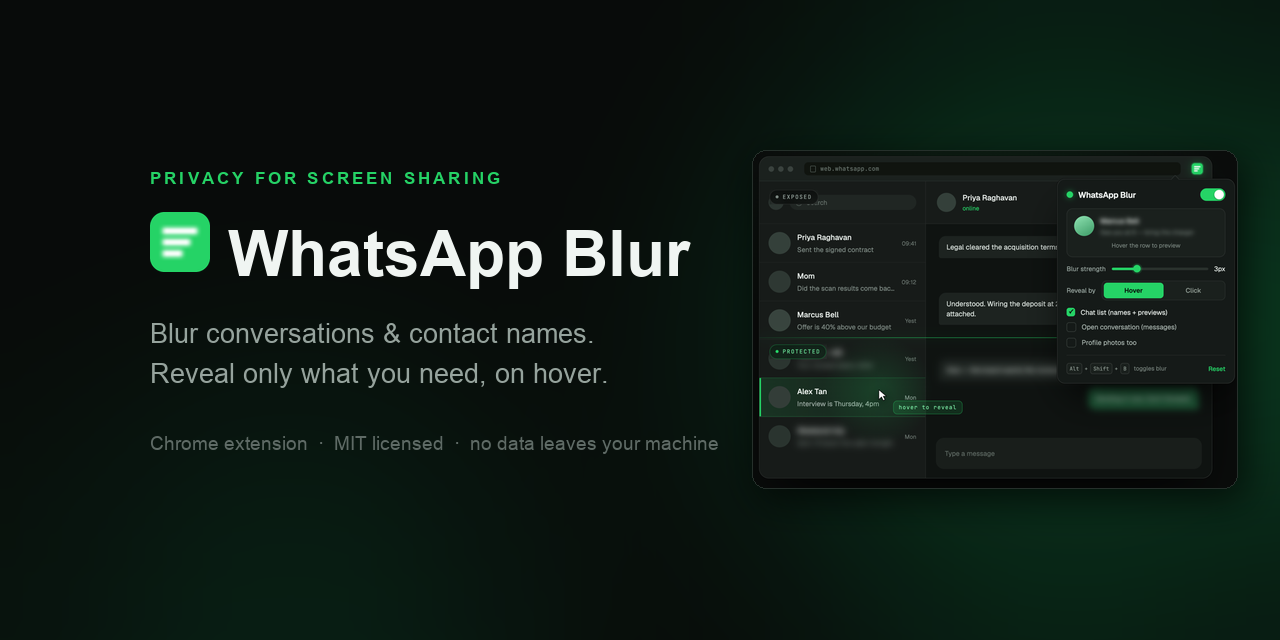
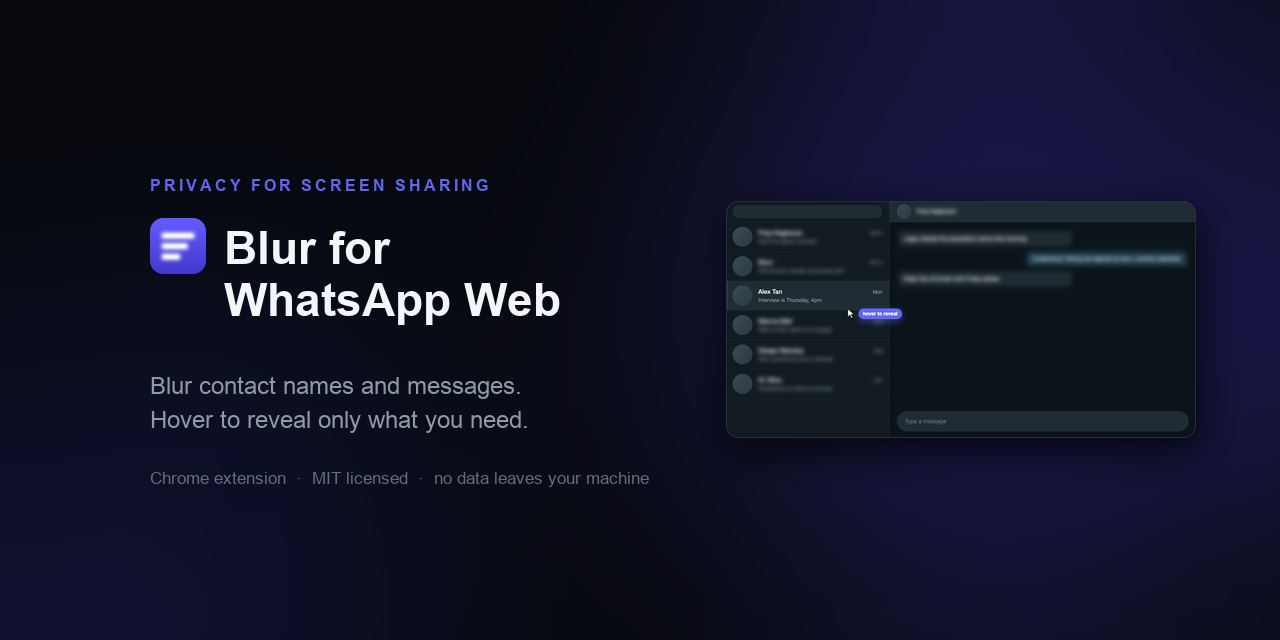
Prepare Chrome Web Store submission
Rename to "Blur for WhatsApp Web" and drop WhatsApp's brand colors so the
listing doesn't read as an official WhatsApp product:

- Name, popup title and action tooltip updated in manifest.json, popup.html
- Popup accent goes from WhatsApp green to indigo (--green* -> --accent*),
  new icons and avatar gradient to match
- Replace assets/banner.png with the reworked social-preview.png in the README

Add the submission material itself:

- store/LISTING.md — listing copy, single-purpose statement, permission
  justifications and privacy answers
- store/*.png — two 1280x800 screenshots and the 440x280 promo tile
- PRIVACY.md — privacy policy to link from the listing
- README section pointing at all of it, plus the zip rebuild command

manifest.json is also reformatted to one array entry per line; no
functional change there.

diff --git a/popup.css b/popup.css
@@ -1,6 +1,6 @@
 :root {
-  --green: #1fa855;
-  --green-soft: #e7f7ee;
+  --accent: #4f46e5;
+  --accent-soft: #eceafd;
   --bg: #ffffff;
   --fg: #0f1720;
   --muted: #667381;
@@ -11,8 +11,8 @@
 
 @media (prefers-color-scheme: dark) {
   :root {
-    --green: #25d366;
-    --green-soft: #17301f;
+    --accent: #7d78ff;
+    --accent-soft: #21205a;
     --bg: #11181c;
     --fg: #e9edef;
     --muted: #8696a0;
@@ -34,7 +34,7 @@ body {
 header { display: flex; align-items: center; justify-content: space-between; }
 .brand { display: flex; align-items: center; gap: 8px; }
 .brand h1 { margin: 0; font-size: 14px; font-weight: 650; letter-spacing: -0.01em; }
-.dot { width: 10px; height: 10px; border-radius: 50%; background: var(--green); box-shadow: 0 0 0 3px var(--green-soft); }
+.dot { width: 10px; height: 10px; border-radius: 50%; background: var(--accent); box-shadow: 0 0 0 3px var(--accent-soft); }
 
 /* master switch */
 .switch input { position: absolute; opacity: 0; pointer-events: none; }
@@ -47,9 +47,9 @@ header { display: flex; align-items: center; justify-content: space-between; }
   background: #fff; box-shadow: 0 1px 3px rgb(0 0 0 / 0.3);
   transition: transform 150ms ease;
 }
-.switch input:checked + .track { background: var(--green); }
+.switch input:checked + .track { background: var(--accent); }
 .switch input:checked + .track .knob { transform: translateX(16px); }
-.switch input:focus-visible + .track { outline: 2px solid var(--green); outline-offset: 2px; }
+.switch input:focus-visible + .track { outline: 2px solid var(--accent); outline-offset: 2px; }
 
 /* live preview */
 .preview {
@@ -60,7 +60,7 @@ header { display: flex; align-items: center; justify-content: space-between; }
   background: color-mix(in srgb, var(--fg) 3%, transparent);
 }
 .preview .row { display: flex; gap: 10px; align-items: center; }
-.avatar { width: 34px; height: 34px; border-radius: 50%; background: linear-gradient(135deg, #9fd8b6, #4fb37a); flex: none; }
+.avatar { width: 34px; height: 34px; border-radius: 50%; background: linear-gradient(135deg, #b6b3f2, #6f66e6); flex: none; }
 .lines { display: grid; gap: 3px; min-width: 0; }
 .line { display: block; white-space: nowrap; overflow: hidden; text-overflow: ellipsis; transition: filter 120ms ease; }
 .name { font-weight: 600; }
@@ -80,7 +80,7 @@ body.blurring .preview.revealed .avatar { filter: none; }
 .control { display: flex; align-items: center; gap: 10px; }
 .control > span { flex: none; width: 88px; color: var(--muted); }
 .control.stacked > span { width: 88px; }
-input[type="range"] { flex: 1; accent-color: var(--green); }
+input[type="range"] { flex: 1; accent-color: var(--accent); }
 output { width: 34px; text-align: right; font-variant-numeric: tabular-nums; color: var(--muted); }
 
 .segmented { display: flex; flex: 1; border: 1px solid var(--line); border-radius: 8px; overflow: hidden; }
@@ -88,10 +88,10 @@ output { width: 34px; text-align: right; font-variant-numeric: tabular-nums; col
   flex: 1; padding: 5px 0; border: 0; background: transparent; cursor: pointer;
   color: var(--muted); font: inherit;
 }
-.segmented button[aria-pressed="true"] { background: var(--green); color: #fff; font-weight: 600; }
+.segmented button[aria-pressed="true"] { background: var(--accent); color: #fff; font-weight: 600; }
 
 .check { display: flex; align-items: center; gap: 8px; cursor: pointer; }
-.check input { accent-color: var(--green); width: 15px; height: 15px; }
+.check input { accent-color: var(--accent); width: 15px; height: 15px; }
 
 footer {
   margin-top: 14px; padding-top: 10px; border-top: 1px solid var(--line);
@@ -102,6 +102,6 @@ kbd {
   padding: 1px 4px; border: 1px solid var(--line); border-bottom-width: 2px;
   border-radius: 4px; font: inherit; font-size: 10px;
 }
-.link { border: 0; background: none; color: var(--green); cursor: pointer; font: inherit; padding: 0; }
+.link { border: 0; background: none; color: var(--accent); cursor: pointer; font: inherit; padding: 0; }
 
 body.off .preview, body.off .controls { opacity: 0.45; pointer-events: none; }

diff --git a/popup.html b/popup.html
@@ -1,12 +1,12 @@
 <!doctype html>
 <meta charset="utf-8">
 <link rel="stylesheet" href="popup.css">
-<title>WhatsApp Blur</title>
+<title>Blur for WhatsApp Web</title>
 
 <header>
   <div class="brand">
     <span class="dot"></span>
-    <h1>WhatsApp Blur</h1>
+    <h1>Blur for WhatsApp Web</h1>
   </div>
   <label class="switch" title="Turn blurring on or off">
     <input type="checkbox" id="enabled">

diff --git a/store/LISTING.md b/store/LISTING.md
@@ -1,0 +1,111 @@
+# Chrome Web Store submission
+
+Everything the developer dashboard asks for, ready to paste.
+
+## Package
+
+`dist/blur-for-whatsapp-web-1.0.0.zip` — upload this. It contains only the
+extension itself (manifest, scripts, styles, icons), not the README, store
+assets or git files.
+
+## Store listing
+
+**Name**
+```
+Blur for WhatsApp Web
+```
+
+**Summary** (132 char limit — this is 91)
+```
+Blur contact names and messages on WhatsApp Web. Hover a chat to reveal only what you need.
+```
+
+**Category:** Privacy & Security
+**Language:** English
+
+**Detailed description**
+```
+Working in a cafe, sharing your screen on a call, or sitting in an open
+office? Your WhatsApp Web chat list broadcasts who is messaging you and what
+they said, to anyone who glances over.
+
+Blur for WhatsApp Web blurs it. Contact names, message previews, timestamps
+and the messages inside an open conversation are all blurred until you hover
+the one you actually want to read — the name and the message clear together,
+then blur again the moment you move away.
+
+WHAT YOU CAN BLUR
+• Chat list — names, previews, timestamps, unread badges
+• Open conversation — every message bubble and the header name
+• Profile photos — optional, off by default
+
+CONTROLS
+• Blur strength, from a light haze to completely unreadable
+• Reveal on hover, or require a click — safer while screen sharing
+• Alt+Shift+B toggles all blurring instantly
+• Settings save automatically and apply without reloading
+
+PRIVACY
+No accounts, no servers, no analytics, no network requests of any kind.
+Nothing is collected and nothing leaves your machine. The extension only runs
+on web.whatsapp.com and does nothing anywhere else. The source is public and
+MIT licensed: https://github.com/rasangalk/whatsapp-blur-extension
+
+Note: blurring is visual. It hides your messages from people looking at your
+screen — it is not encryption and not a substitute for locking your computer.
+
+Not affiliated with, endorsed by, or connected to WhatsApp or Meta.
+```
+
+## Privacy practices tab
+
+**Single purpose**
+```
+Visually blur contact names and message content on WhatsApp Web so they cannot
+be read by people looking at the user's screen, revealing them on hover or
+click.
+```
+
+**Justification — `storage`**
+```
+Stores the user's own settings: blur on/off, blur strength, hover-or-click
+reveal mode, and which areas to blur. No user content is stored.
+```
+
+**Justification — host permission for `https://web.whatsapp.com/*`**
+```
+The extension applies its blur to WhatsApp Web's interface, so it must run a
+content script on that site. It requests no other host and runs nowhere else.
+```
+
+**Remote code:** No — all code is in the package.
+
+**Data collection:** Nothing collected. Tick no categories, and confirm the
+three certifications (no unrelated selling, no unapproved use, no
+creditworthiness use).
+
+**Privacy policy URL**
+```
+https://github.com/rasangalk/whatsapp-blur-extension/blob/main/PRIVACY.md
+```
+(The repo must be public and pushed before submitting, or this link 404s.)
+
+## Graphics
+
+| Asset | File | Size |
+| --- | --- | --- |
+| Screenshot 1 | `store/screenshot-1-chat-list.png` | 1280×800 |
+| Screenshot 2 | `store/screenshot-2-settings.png` | 1280×800 |
+| Small promo tile | `store/promo-tile-440x280.png` | 440×280 |
+| Store icon | `icons/icon128.png` | 128×128 |
+
+Marquee promo tile (1400×560) is optional and only used if the extension is
+featured.
+
+## Before you submit
+
+1. Push the repo — the privacy policy URL and the source link must resolve.
+2. Enable 2-Step Verification on the Google account, pay the one-time $5
+   developer registration fee.
+3. Upload the zip, paste the fields above, attach the graphics.
+4. Review usually takes a few days; host permissions can make it longer.

diff --git a/README.md b/README.md
@@ -1,8 +1,8 @@
-# WhatsApp Blur
+# Blur for WhatsApp Web
 
 <p align="center">
-  <img src="assets/banner.png" width="520"
-       alt="Sharing your screen? Keep WhatsApp private. Blur conversations and contact names, reveal only what you need, on hover.">
+  <img src="assets/social-preview.png" width="720"
+       alt="Blur for WhatsApp Web - blur contact names and messages, hover to reveal only what you need.">
 </p>
 
 A Chrome extension that blurs contact names and messages on WhatsApp Web.
@@ -107,6 +107,19 @@ icons/           generated PNG icons
   can't be parsed, the whole row stays blurred rather than exposed. If you see
   a row whose photo is blurred with "Profile photos too" switched off, that is
   this fallback — tell me the kind of row and I'll extend the detection.
+
+## Chrome Web Store
+
+Not published yet. Everything needed for a submission is prepared:
+
+- `dist/blur-for-whatsapp-web-1.0.0.zip` — the upload package, 20 KB,
+  extension files only (build artifact, not committed; rebuild with
+  `zip -r dist/blur-for-whatsapp-web-1.0.0.zip manifest.json background.js
+  content.js content.css popup.* icons`)
+- `store/LISTING.md` — listing copy, single-purpose statement, permission
+  justifications and privacy answers, ready to paste
+- `store/*.png` — two 1280x800 screenshots and the 440x280 promo tile
+- `PRIVACY.md` — privacy policy, linked from the listing
 
 ## Contributing
 

diff --git a/PRIVACY.md b/PRIVACY.md
@@ -1,0 +1,36 @@
+# Privacy Policy — Blur for WhatsApp Web
+
+_Last updated: 21 August 2026_
+
+**This extension does not collect, store, transmit, or sell any user data.**
+
+## What it does with your data
+
+Nothing leaves your machine. The extension has no server, makes no network
+requests, and contains no analytics, telemetry, tracking, or advertising code.
+
+To blur what is on screen it reads the page structure of `web.whatsapp.com`
+in your browser — the position of chat rows and message bubbles — and adds a
+CSS blur to them. That reading happens entirely inside your own browser tab
+and is never recorded, copied, or sent anywhere. Your messages, contact names,
+phone numbers and profile photos are never accessed as data, stored, or
+transmitted.
+
+## What is saved
+
+Your settings only — whether blurring is on, the blur strength, whether to
+reveal on hover or click, and which areas to blur. These are kept in Chrome's
+`storage.sync`, which means Chrome itself may sync them between your own
+signed-in Chrome installations. They contain no personal information and no
+message content.
+
+## Permissions
+
+- **storage** — saves the settings listed above.
+- **Access to `web.whatsapp.com`** — required to apply the blur on that site.
+  The extension runs on no other site.
+
+## Contact
+
+Questions or concerns: open an issue at
+https://github.com/rasangalk/whatsapp-blur-extension/issues
